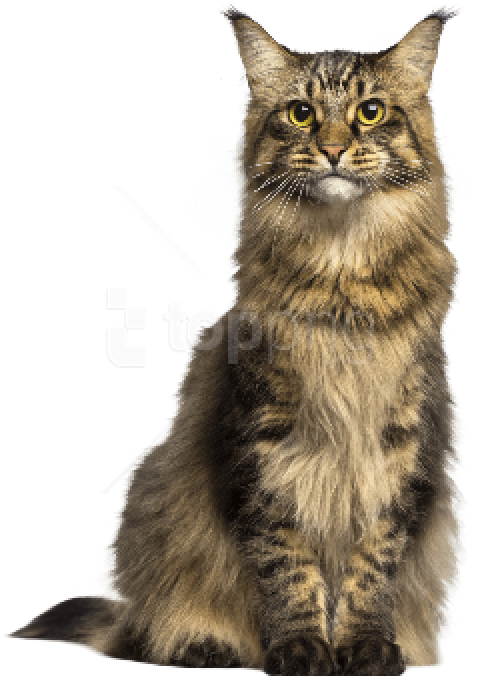
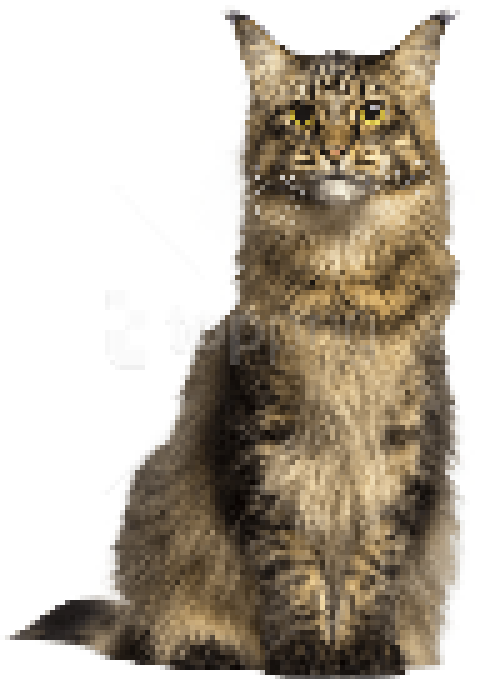
Pixelation fix

Changed region(s): [[0.0, 0.0, 0.9688, 1.0]]

diff --git a/Misc/src/img_manip/Test.java b/Misc/src/img_manip/Test.java
@@ -6,7 +6,7 @@ public class Test
 {
 	public static void main(String[] args)
 	{
-		Pixelate img = new Pixelate(new File("/Users/alexanderjones/Dropbox/Programming1500/Misc/src/img_manip/cat.png"), 5);
-		img.pixelate("/Users/alexanderjones/Dropbox/Programming1500/Misc/src/img_manip/pixel_cat", "png");
+		Pixelate img = new Pixelate(new File("src/img_manip/cat.png"), 5);
+		img.pixelate("src/img_manip/pixel_cat", "png");
 	}
 }
